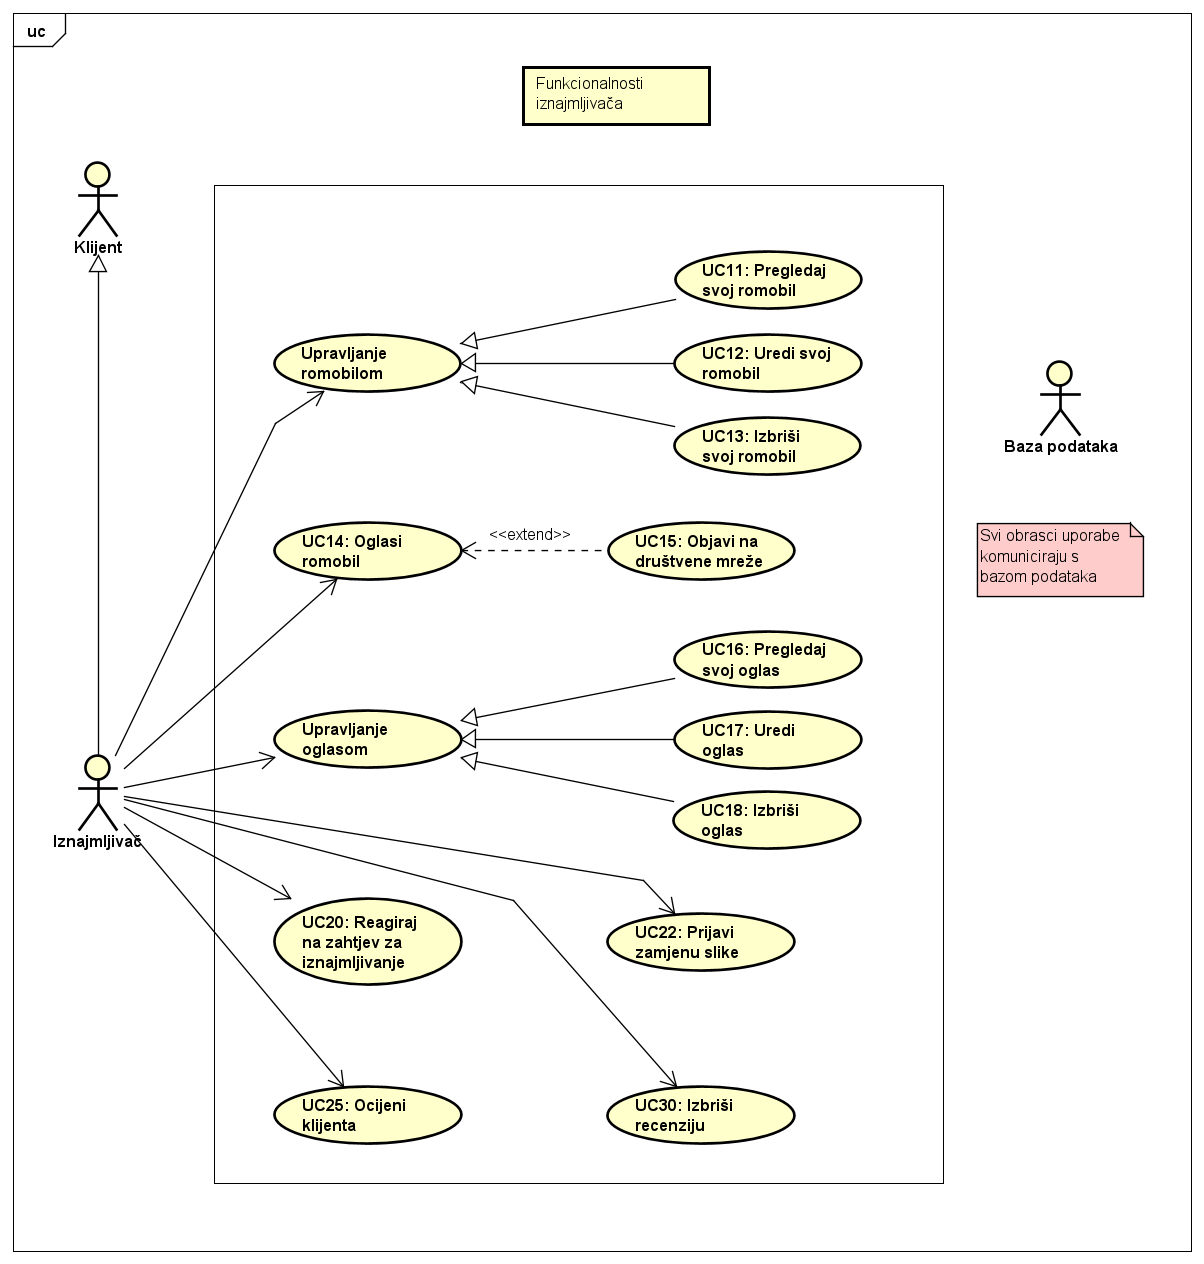
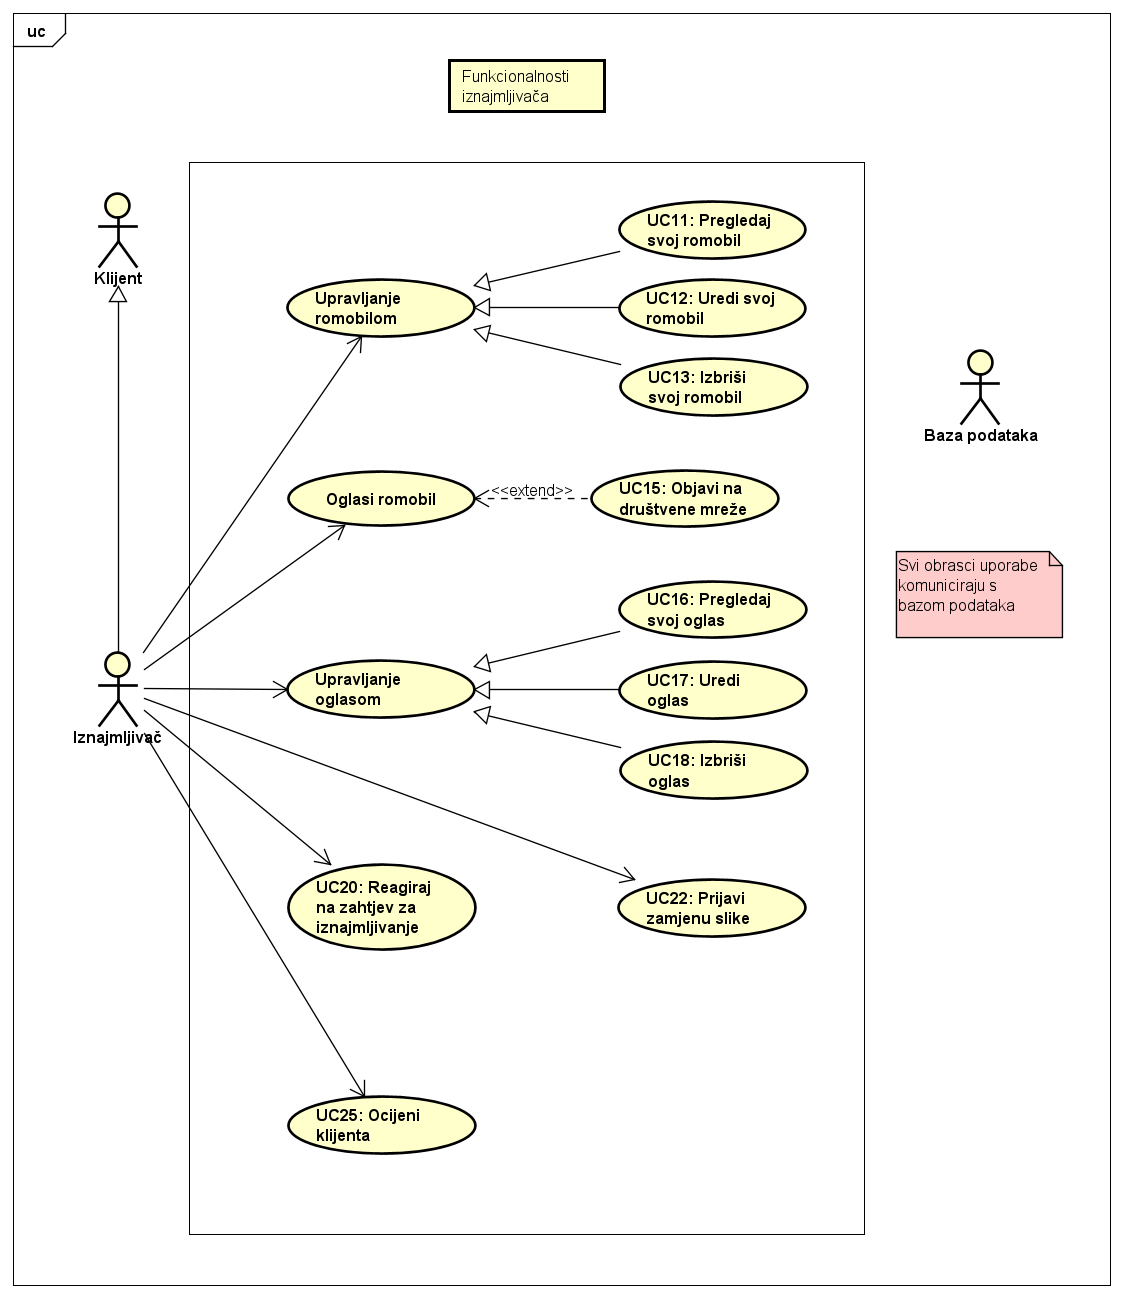
popravljeni uml dijagrami

diff --git a/Dokumentacija/Specifikacija_programske_potpore.tex b/Dokumentacija/Specifikacija_programske_potpore.tex
@@ -580,10 +580,10 @@
 						\noindent \underbar{\textbf{UC18 - Izbriši oglas}}
 						\begin{packed_item}
 							
-							\item \textbf{Glavni sudionik: }Iznajmljivač, administrator
+							\item \textbf{Glavni sudionik: }Iznajmljivač
 							\item  \textbf{Cilj: }Izbrisati oglas o romobilu s popisa oglašenih romobila
 							\item  \textbf{Sudionici: }Baza podataka
-							\item  \textbf{Preduvjet: }Korisnik je prijavljen, ako je korisnik iznajmljivač mora imati barem jedan svoj aktivan oglas, a ako je korisnik administrator mora postojati barem jedan aktivan oglas bilo kojeg iznajmljivača
+							\item  \textbf{Preduvjet: }Korisnik je prijavljen, ako je korisnik iznajmljivač mora imati barem jedan svoj aktivan oglas
 							\item  \textbf{Opis osnovnog tijeka:}
 							
 							\item[] \begin{packed_enum}
@@ -952,7 +952,7 @@
 					
 					\begin{figure} [H]
 						
-						\includegraphics[width=1\linewidth]{dijagrami/klijent_i_banka.png}
+						\includegraphics[width=1\linewidth]{dijagrami/klijent.png}
 						\centering
 						\caption{Dijagram obrasca uporabe - funkcionalnost klijenta i banke}
 						\label{fig:Dijagram obrasca uporabe - funkcionalnost klijenta i banke}
@@ -960,7 +960,7 @@
 					
 					\begin{figure} [H]
 						
-						\includegraphics[width=1\linewidth]{dijagrami/neregistrirani_i_admin.png}
+						\includegraphics[width=1\linewidth]{dijagrami/admin_neregistrirani.png}
 						\centering
 						\caption{Dijagram obrasca uporabe - funkcionalnost neregistriranog korisnika i administratora}
 						\label{fig:Dijagram obrasca uporabe - funkcionalnost neregistriranog korisnika i administratora}
